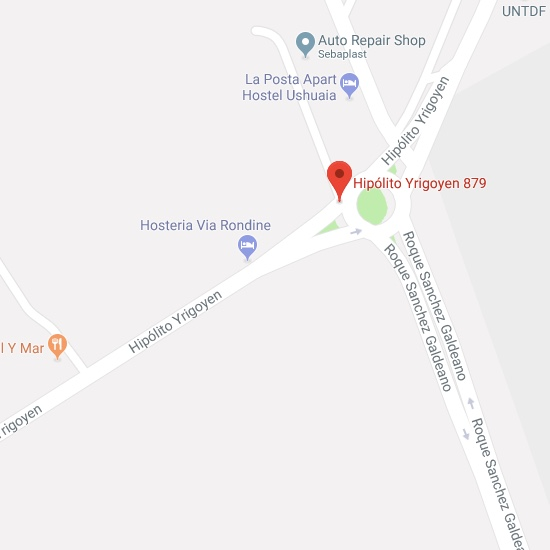
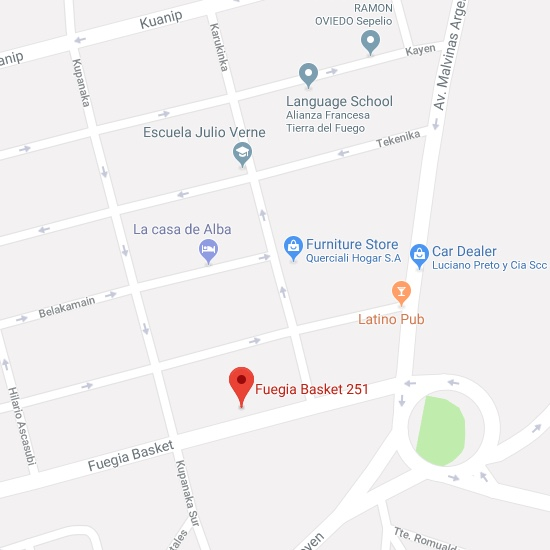
Fix location

diff --git a/src/pages/Location/index.js b/src/pages/Location/index.js
@@ -21,15 +21,15 @@ function Location() {
         <div className="tile__left">
           <h2 className="tile__title">DIRECCIÓN</h2>
           <p className="tile__text">
-            Hipólito Yrigoyen 879, Ushuaia, Tierra del Fuego, Argentina.
+            Aula 1 de Fuegia Basket 251, Ushuaia, Tierra del Fuego, Argentina.
           </p>
           <p className="tile__text">
-            <a target="_blank" rel="noopener noreferrer" href="https://www.google.com.ar/maps/place/Hip%C3%B3lito+Yrigoyen+879,+Ushuaia,+Tierra+del+Fuego/@-54.8267468,-68.3323381,17z/data=!3m1!4b1!4m5!3m4!1s0xbc4c2373a6566475:0xf3d9edd91f8702cb!8m2!3d-54.8267468!4d-68.3301494?hl=en">
+            <a target="_blank" rel="noopener noreferrer" href="https://www.google.com/maps/place/Fuegia+Basket+251,+V9410BXE+Ushuaia,+Tierra+del+Fuego/@-54.8188082,-68.3277281,17z/data=!3m1!4b1!4m5!3m4!1s0xbc4c2313c9d54fcb:0xf3c5850f10e7b3ea!8m2!3d-54.8188082!4d-68.3255394">
               Ver en Google Maps
             </a>
           </p>
           <div className="tile__social">
-            <SocialLinks/>
+            <SocialLinks />
           </div>
         </div>
         <div className="tile__right">
